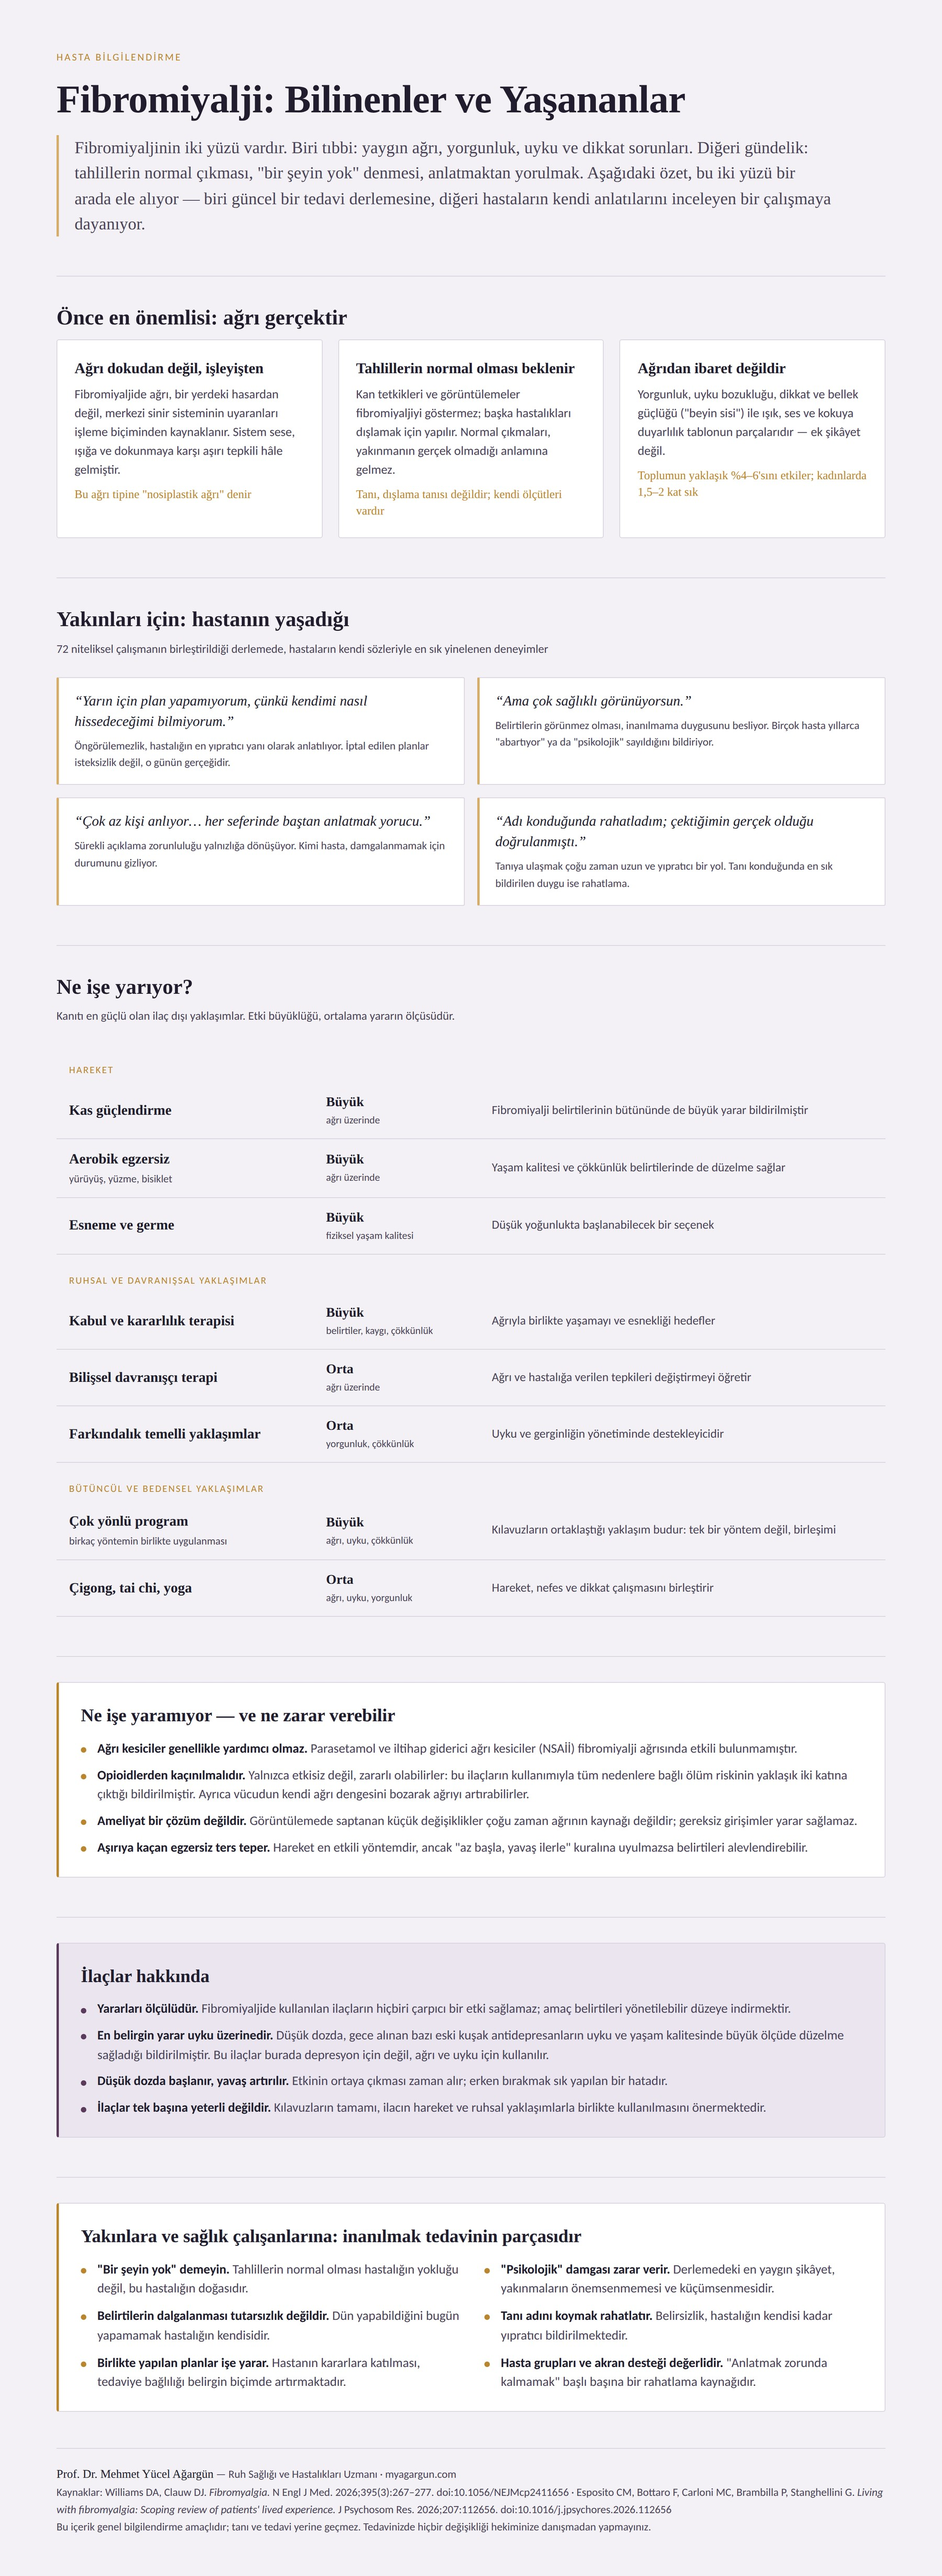
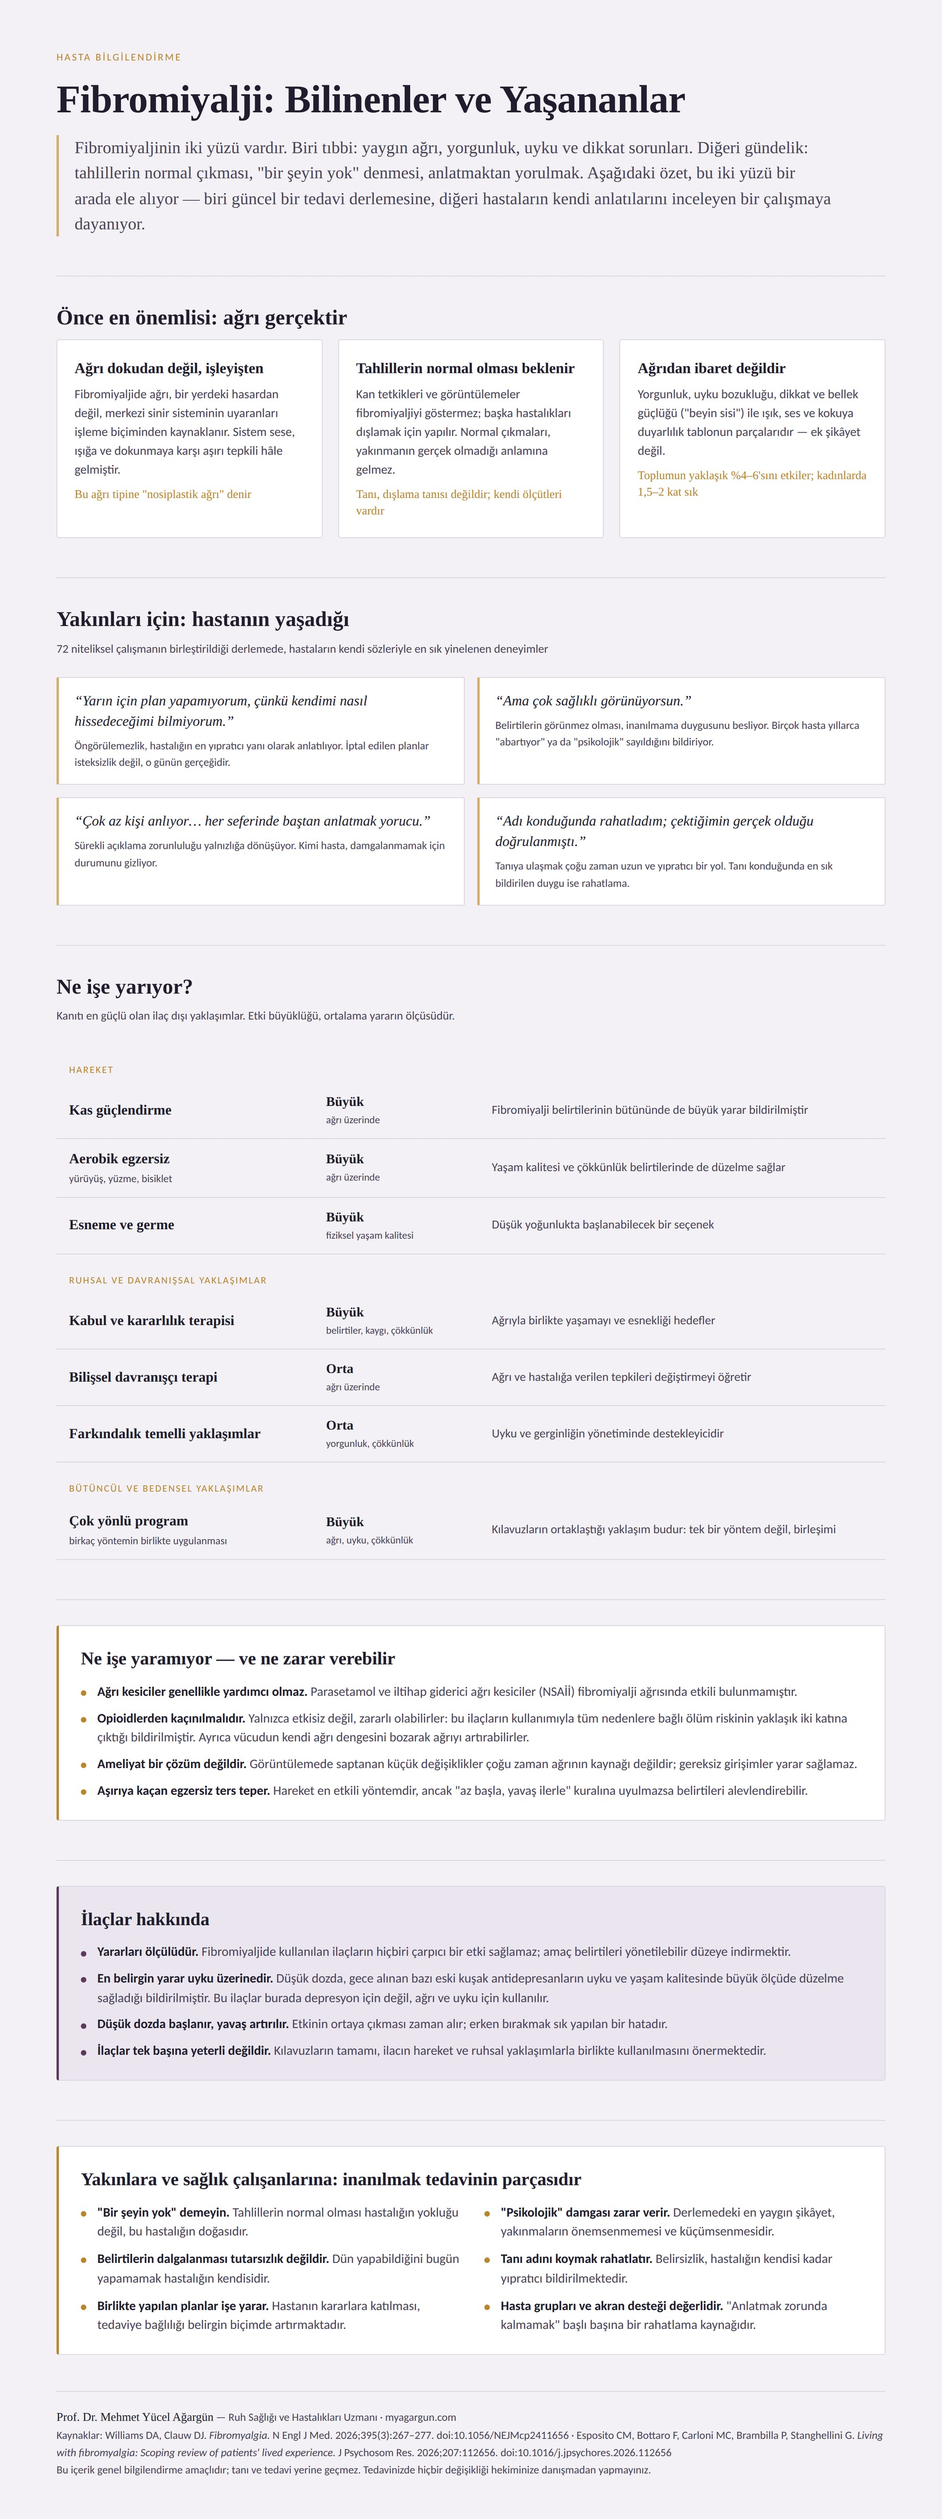
Fibromiyalji yazısından çigong, tai chi ve yoga satırını çıkar
"Ne işe yarıyor?" tablosundaki ilgili satır kaldırıldı; görsel yeniden
üretildi ve sayfanın alt metni buna göre güncellendi.

Claude-Session: https://claude.ai/code/session_01JhEv671xvcj7NYuhVkgq1Y

diff --git a/yazilar/fibromiyalji.html b/yazilar/fibromiyalji.html
@@ -112,8 +112,8 @@
 
   <figure class="figure">
     <img src="../gorseller/fibromiyalji.jpg"
-         alt="Fibromiyaljiyi hem tıbbi hem yaşanan yönüyle anlatan infografik. Birinci bölüm ağrının gerçek olduğunu vurgulamaktadır: fibromiyaljide ağrı bir yerdeki hasardan değil, merkezi sinir sisteminin uyaranları işleme biçiminden kaynaklanır ve bu ağrı tipine nosiplastik ağrı denir; kan tetkikleri ve görüntülemeler fibromiyaljiyi göstermez, başka hastalıkları dışlamak için yapılır ve normal çıkmaları yakınmanın gerçek olmadığı anlamına gelmez, ayrıca tanı bir dışlama tanısı değildir ve kendi ölçütleri vardır; yorgunluk, uyku bozukluğu, dikkat ve bellek güçlüğü ile ışık, ses ve kokuya duyarlılık tablonun parçalarıdır, hastalık toplumun yaklaşık yüzde 4 ile 6'sını etkiler ve kadınlarda 1,5 ile 2 kat daha sıktır. İkinci bölüm, 72 niteliksel çalışmanın birleştirildiği bir derlemeden hastaların kendi sözlerini aktarmaktadır: yarın için plan yapamama ve öngörülemezlik; sağlıklı görünmenin inanılmama duygusunu beslemesi ve birçok hastanın yıllarca abartıyor ya da psikolojik sayıldığını bildirmesi; sürekli açıklama zorunluluğunun yalnızlığa dönüşmesi; tanı konduğunda en sık bildirilen duygunun rahatlama olması. Üçüncü bölüm kanıtı en güçlü ilaç dışı yaklaşımları sıralamaktadır: kas güçlendirme ağrı üzerinde büyük etki; aerobik egzersiz ağrı üzerinde büyük etki ve yaşam kalitesi ile çökkünlükte düzelme; esneme ve germe fiziksel yaşam kalitesinde büyük etki; kabul ve kararlılık terapisi belirtiler, kaygı ve çökkünlükte büyük etki; bilişsel davranışçı terapi ağrıda orta etki; farkındalık temelli yaklaşımlar yorgunluk ve çökkünlükte orta etki; birkaç yöntemin birlikte uygulandığı çok yönlü programlar ağrı, uyku ve çökkünlükte büyük etki ve kılavuzların ortaklaştığı yaklaşım budur; çigong, tai chi ve yoga ağrı, uyku ve yorgunlukta orta etki. Dördüncü bölüm işe yaramayan ve zarar verebilecek yaklaşımları belirtmektedir: parasetamol ve iltihap giderici ağrı kesiciler fibromiyalji ağrısında etkili bulunmamıştır; opioidlerden kaçınılmalıdır çünkü kullanımlarıyla tüm nedenlere bağlı ölüm riskinin yaklaşık iki katına çıktığı bildirilmiştir ve vücudun kendi ağrı dengesini bozarak ağrıyı artırabilirler; ameliyat bir çözüm değildir; aşırıya kaçan egzersiz belirtileri alevlendirebilir, az başlayıp yavaş ilerlemek gerekir. Beşinci bölüm ilaçlar hakkındadır: yararları ölçülüdür, en belirgin yarar uyku üzerinedir, düşük dozda gece alınan bazı eski kuşak antidepresanlar uyku ve yaşam kalitesinde büyük ölçüde düzelme sağlar ve bu ilaçlar burada depresyon için değil ağrı ve uyku için kullanılır, düşük dozda başlanıp yavaş artırılır ve ilaçlar tek başına yeterli değildir. Son bölüm yakınlara ve sağlık çalışanlarına seslenmektedir: "bir şeyin yok" denmemeli, psikolojik damgası zarar verir, belirtilerin dalgalanması tutarsızlık değildir, tanı adını koymak rahatlatır, birlikte yapılan planlar tedaviye bağlılığı artırır ve hasta grupları ile akran desteği değerlidir."
-         loading="lazy" width="1800" height="4918">
+         alt="Fibromiyaljiyi hem tıbbi hem yaşanan yönüyle anlatan infografik. Birinci bölüm ağrının gerçek olduğunu vurgulamaktadır: fibromiyaljide ağrı bir yerdeki hasardan değil, merkezi sinir sisteminin uyaranları işleme biçiminden kaynaklanır ve bu ağrı tipine nosiplastik ağrı denir; kan tetkikleri ve görüntülemeler fibromiyaljiyi göstermez, başka hastalıkları dışlamak için yapılır ve normal çıkmaları yakınmanın gerçek olmadığı anlamına gelmez, ayrıca tanı bir dışlama tanısı değildir ve kendi ölçütleri vardır; yorgunluk, uyku bozukluğu, dikkat ve bellek güçlüğü ile ışık, ses ve kokuya duyarlılık tablonun parçalarıdır, hastalık toplumun yaklaşık yüzde 4 ile 6'sını etkiler ve kadınlarda 1,5 ile 2 kat daha sıktır. İkinci bölüm, 72 niteliksel çalışmanın birleştirildiği bir derlemeden hastaların kendi sözlerini aktarmaktadır: yarın için plan yapamama ve öngörülemezlik; sağlıklı görünmenin inanılmama duygusunu beslemesi ve birçok hastanın yıllarca abartıyor ya da psikolojik sayıldığını bildirmesi; sürekli açıklama zorunluluğunun yalnızlığa dönüşmesi; tanı konduğunda en sık bildirilen duygunun rahatlama olması. Üçüncü bölüm kanıtı en güçlü ilaç dışı yaklaşımları sıralamaktadır: kas güçlendirme ağrı üzerinde büyük etki; aerobik egzersiz ağrı üzerinde büyük etki ve yaşam kalitesi ile çökkünlükte düzelme; esneme ve germe fiziksel yaşam kalitesinde büyük etki; kabul ve kararlılık terapisi belirtiler, kaygı ve çökkünlükte büyük etki; bilişsel davranışçı terapi ağrıda orta etki; farkındalık temelli yaklaşımlar yorgunluk ve çökkünlükte orta etki; birkaç yöntemin birlikte uygulandığı çok yönlü programlar ağrı, uyku ve çökkünlükte büyük etki ve kılavuzların ortaklaştığı yaklaşım budur. Dördüncü bölüm işe yaramayan ve zarar verebilecek yaklaşımları belirtmektedir: parasetamol ve iltihap giderici ağrı kesiciler fibromiyalji ağrısında etkili bulunmamıştır; opioidlerden kaçınılmalıdır çünkü kullanımlarıyla tüm nedenlere bağlı ölüm riskinin yaklaşık iki katına çıktığı bildirilmiştir ve vücudun kendi ağrı dengesini bozarak ağrıyı artırabilirler; ameliyat bir çözüm değildir; aşırıya kaçan egzersiz belirtileri alevlendirebilir, az başlayıp yavaş ilerlemek gerekir. Beşinci bölüm ilaçlar hakkındadır: yararları ölçülüdür, en belirgin yarar uyku üzerinedir, düşük dozda gece alınan bazı eski kuşak antidepresanlar uyku ve yaşam kalitesinde büyük ölçüde düzelme sağlar ve bu ilaçlar burada depresyon için değil ağrı ve uyku için kullanılır, düşük dozda başlanıp yavaş artırılır ve ilaçlar tek başına yeterli değildir. Son bölüm yakınlara ve sağlık çalışanlarına seslenmektedir: "bir şeyin yok" denmemeli, psikolojik damgası zarar verir, belirtilerin dalgalanması tutarsızlık değildir, tanı adını koymak rahatlatır, birlikte yapılan planlar tedaviye bağlılığı artırır ve hasta grupları ile akran desteği değerlidir."
+         loading="lazy" width="1800" height="4810">
   </figure>
   <p class="figure-note">Görseli büyütmek için <a href="../gorseller/fibromiyalji.jpg" target="_blank" rel="noopener">tam boyutta açabilirsiniz</a>.</p>
 
